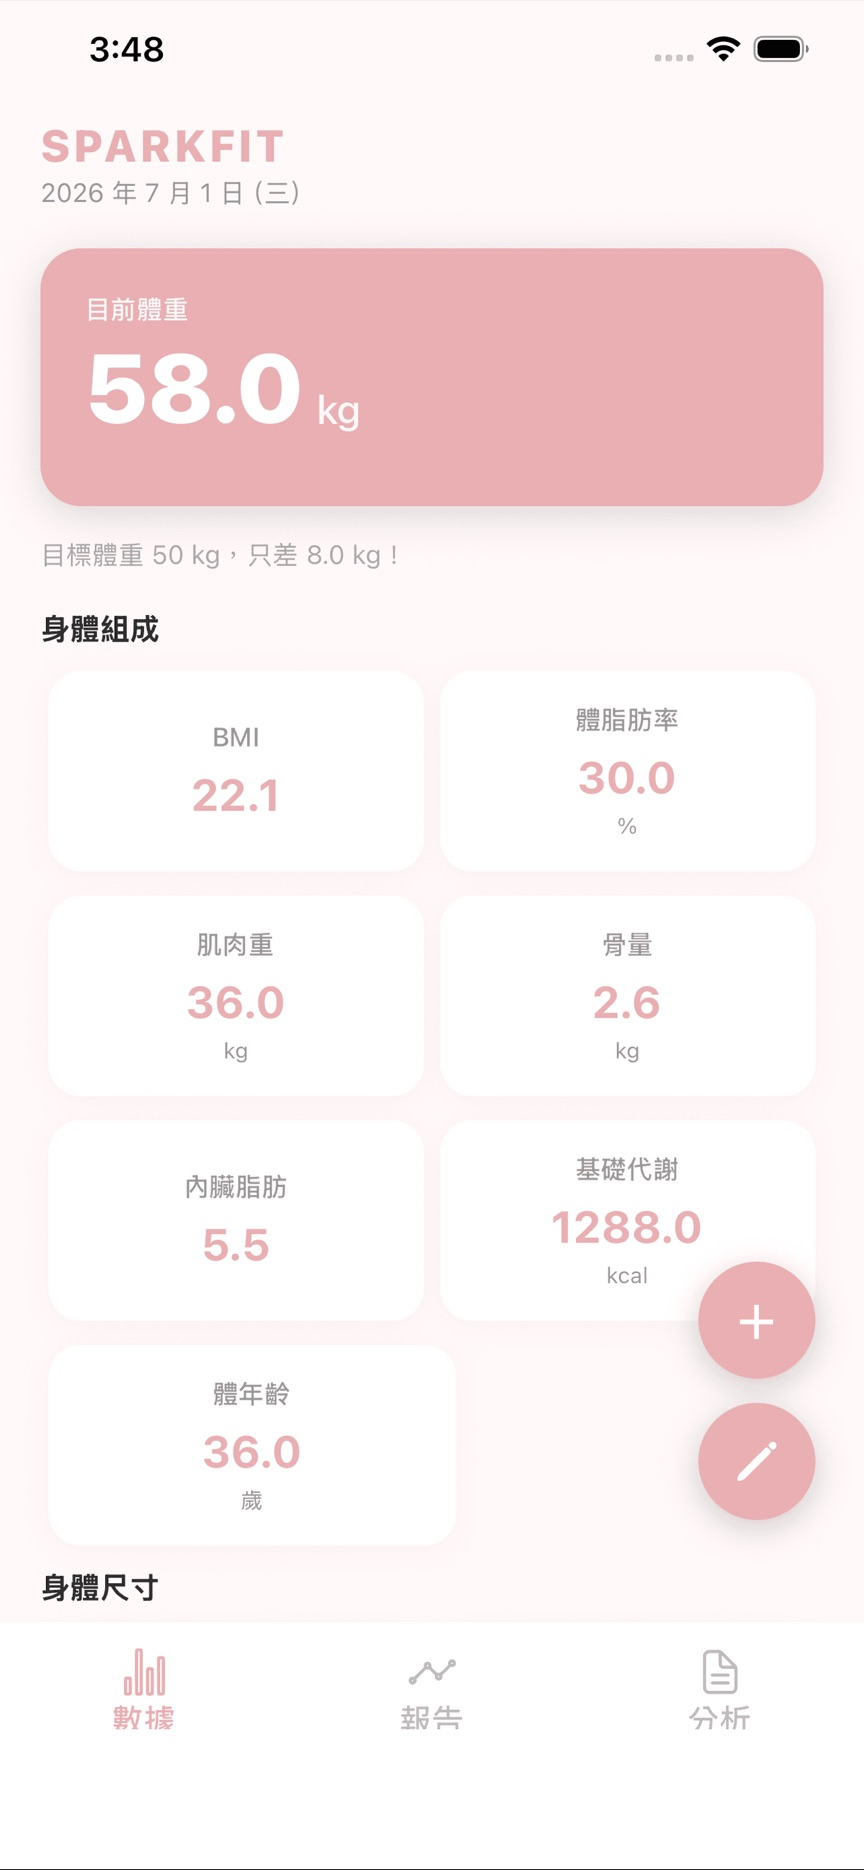
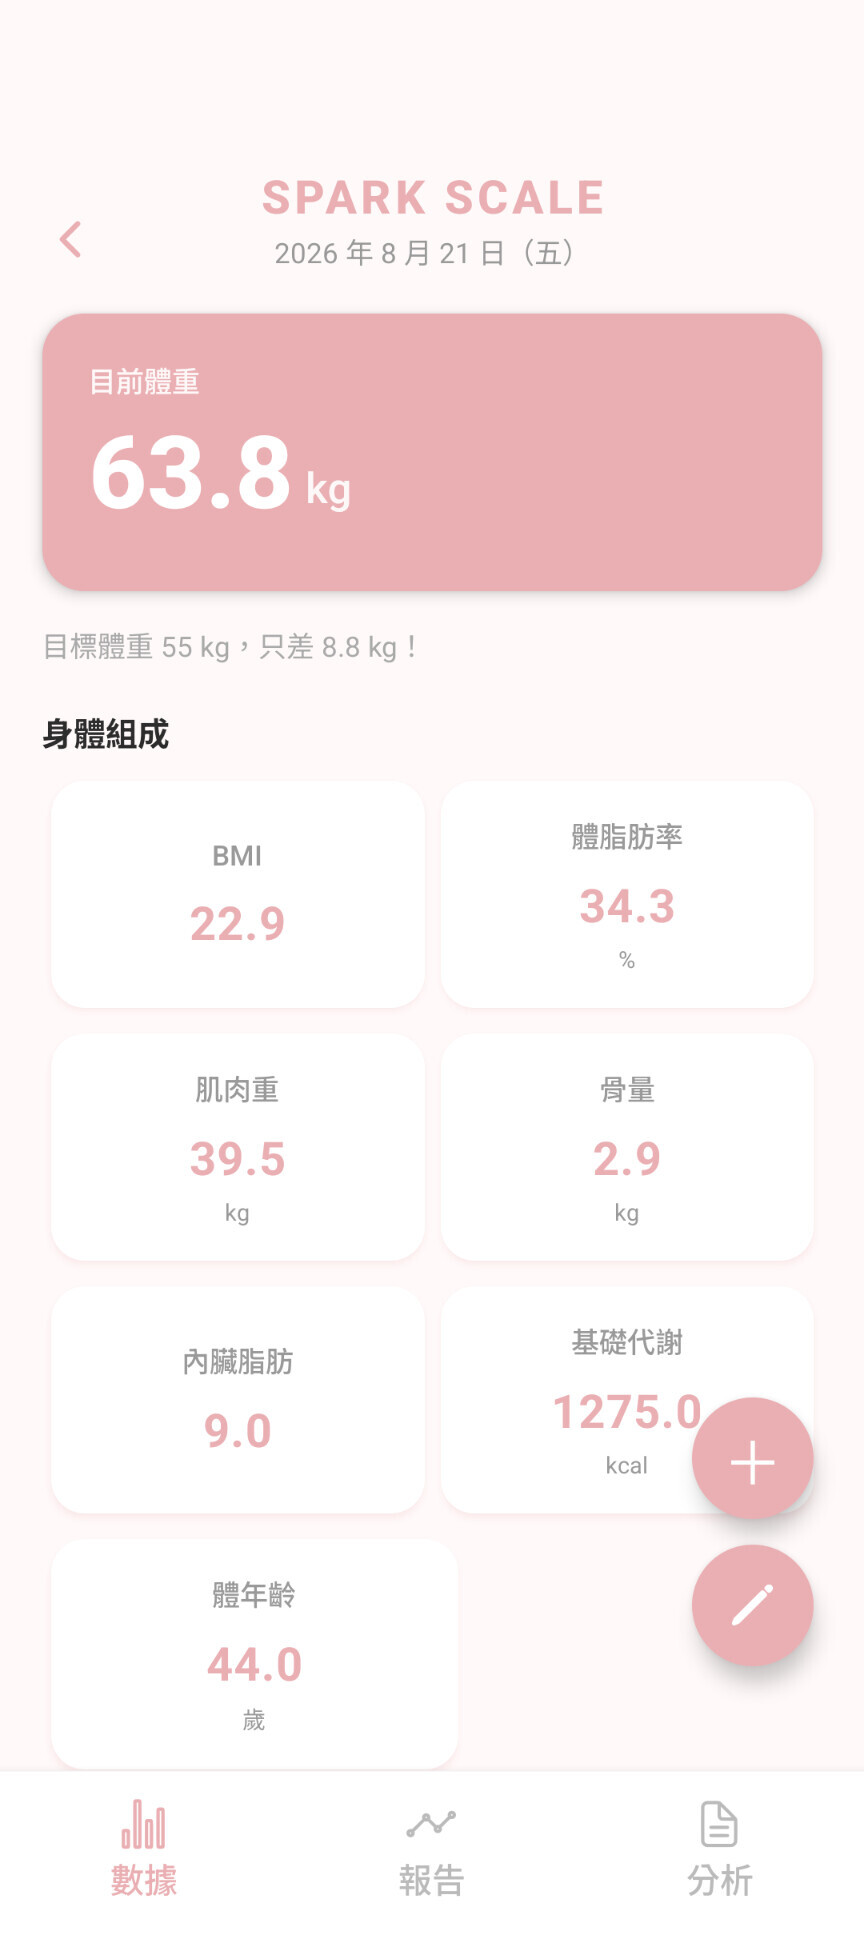
update: 替換 SPARK SCALE 照片預覽的三張截圖
Claude-Session: https://claude.ai/code/session_017vqHSdGPLd7h9YeT8LDa9W

diff --git a/apps.html b/apps.html
@@ -271,10 +271,10 @@
           <div class="app-screen">
             <div class="app-screen__frame">
               <div class="app-screen__body">
-                <img src="images/screen-spark-fit-3.jpg" alt="SPARK SCALE 修改數據畫面" loading="lazy" style="width:100%;height:100%;object-fit:cover;display:block;">
+                <img src="images/screen-spark-fit-3.jpg" alt="SPARK SCALE 身材分析畫面" loading="lazy" style="width:100%;height:100%;object-fit:cover;display:block;">
               </div>
             </div>
-            <span class="app-screen__label">修改數據</span>
+            <span class="app-screen__label">身材分析</span>
           </div>
         </div>
         </div>
